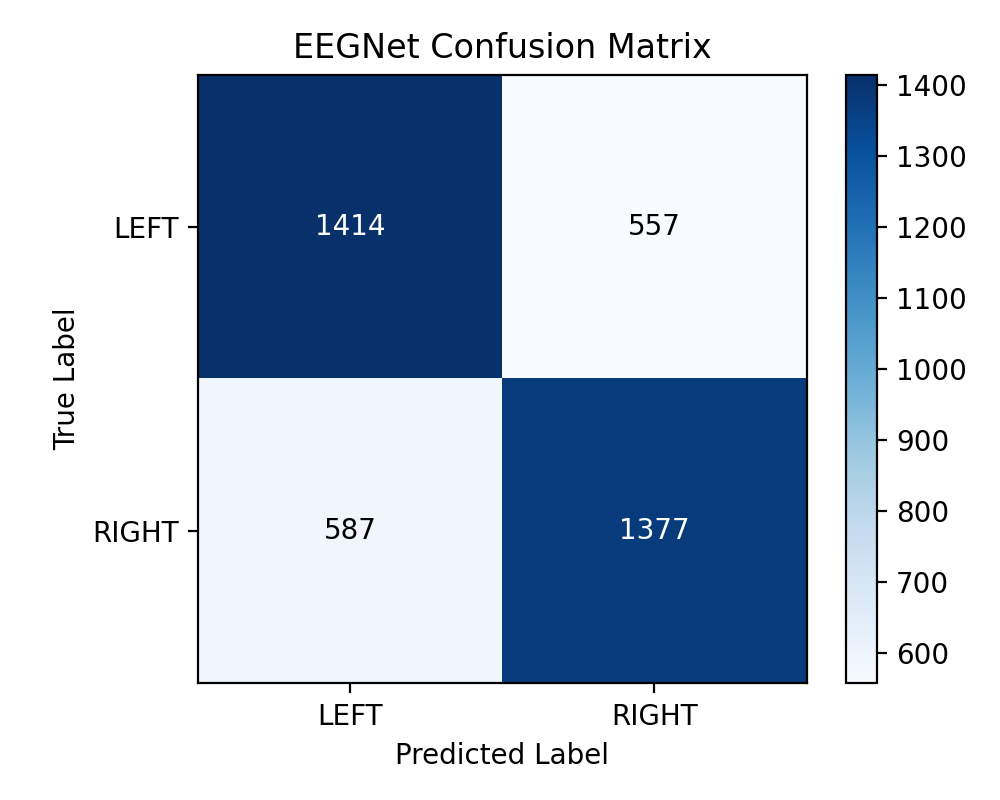
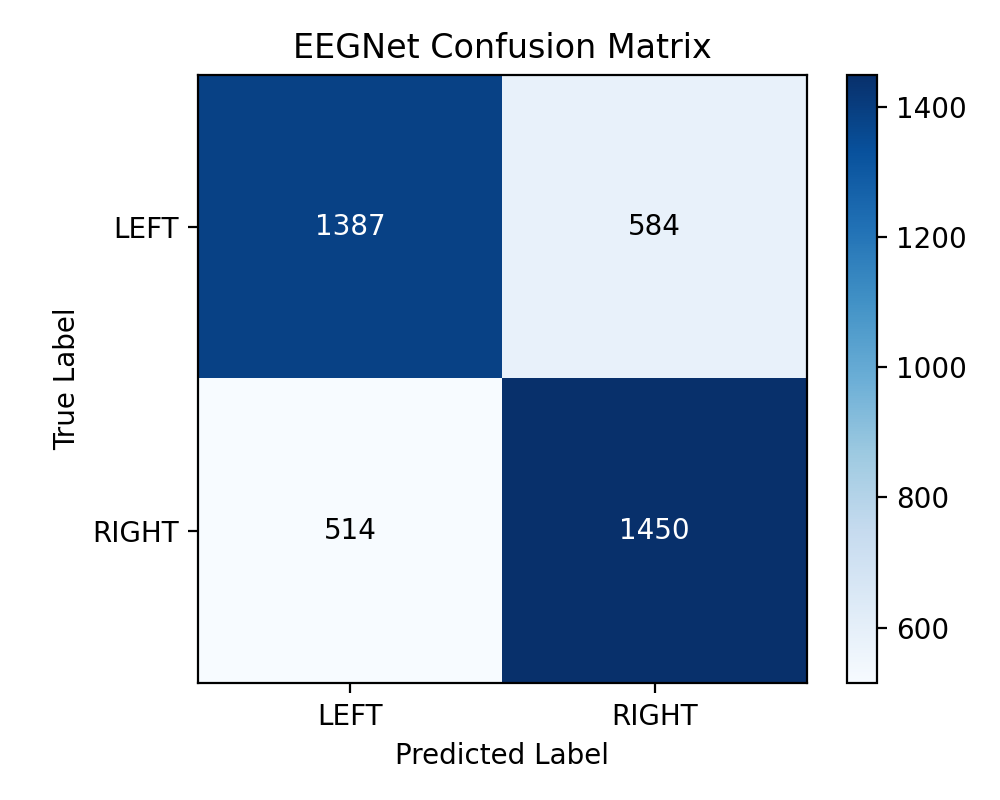
Update timestamp in generate_eegnet_report.py and remove plot_training_curves.py

diff --git a/src/generate_eegnet_report.py b/src/generate_eegnet_report.py
@@ -19,7 +19,7 @@ ARTIFACTS_DIR = os.path.join(SCRIPT_DIR, "artifacts")
 MODELS_DIR = os.path.join(SCRIPT_DIR, "..", "models")
 
 # 🔴 UPDATE THIS TIMESTAMP to your run
-TIMESTAMP = "20251124_112120"
+TIMESTAMP = "20251125_193714"
 
 MODEL_PATH = os.path.join(MODELS_DIR, f"eegnet_fast_global_{TIMESTAMP}.h5")
 HISTORY_PATH = os.path.join(ARTIFACTS_DIR, f"history_eegnet_fast_{TIMESTAMP}.json")
